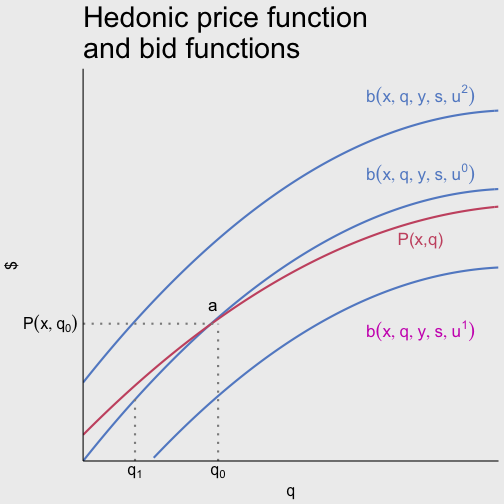
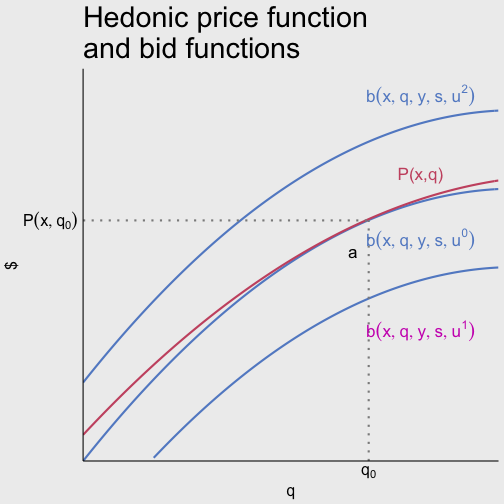
Fix tangency for bid function.

diff --git a/lecture-notes/09-hedonics/09-hedonics.html b/lecture-notes/09-hedonics/09-hedonics.html
@@ -52,7 +52,8 @@ knitr::opts_chunk$set(echo = TRUE, fig.align="center")
 ```
 
 ```
-## Warning in style_panelset_tabs(...): The arguments to `syle_panelset()` changed in xaringanExtra 0.1.0. Please refer to the documentation to update your slides.
+## Warning in style_panelset_tabs(...): The arguments to `syle_panelset()` changed in xaringanExtra 0.1.0. Please refer to the documentation to update your
+## slides.
 ```
 
 ---
